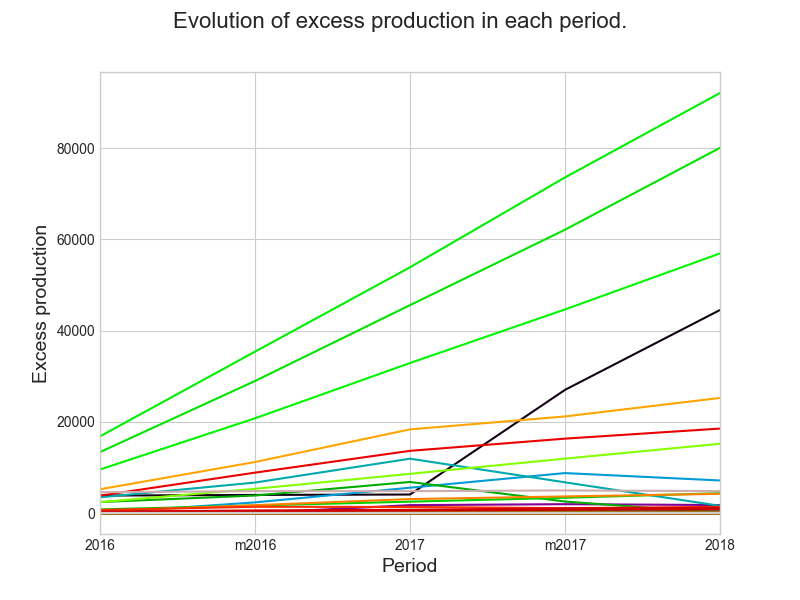
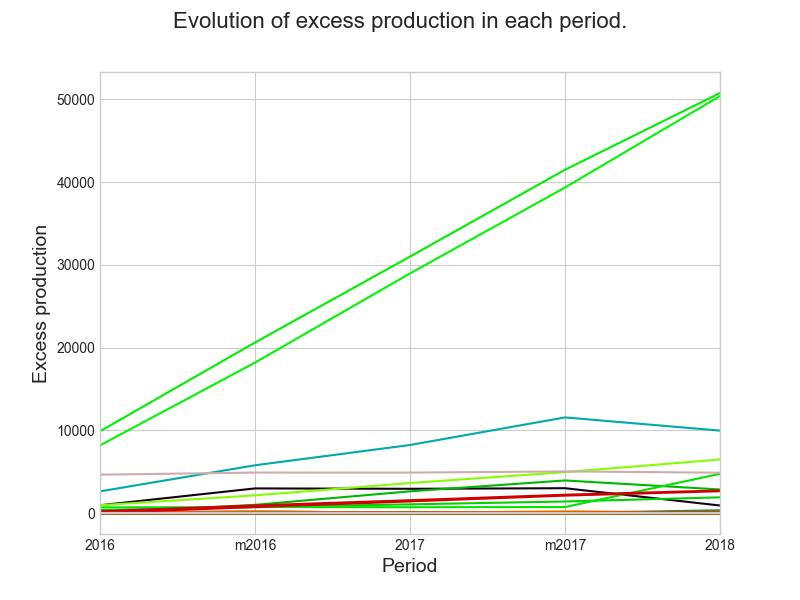
update data and algorithm to fit spanish economy

diff --git a/economicplan/optimize.py b/economicplan/optimize.py
@@ -102,7 +102,7 @@ class OptimizePlan:
         export_deficit (list[NDArray]): The export deficit at the end of each period.
         activity (list[Variable]): The activity variables of our LP problem, which correspond to the
             level of activation of each production unit.
-        final_import (list[Variable]): The final imported products (variables) of our LP problem,
+        total_import (list[Variable]): The final imported products (variables) of our LP problem,
             which correspond to the level of activation of each production unit.
     """
 
@@ -118,11 +118,11 @@ class OptimizePlan:
         self.activity_planned: list[NDArray] = ...
         self.production_planned: list[NDArray] = ...
         self.surplus_planned: list[NDArray] = ...
-        self.final_import_planned: list[NDArray] = ...
+        self.total_import_planned: list[NDArray] = ...
         self.export_deficit: list[NDArray] = ...
         self.worked_hours: list[NDArray] = ...
         self.activity: list[Variable] = ...
-        self.final_import: list[Variable] = ...
+        self.total_import: list[Variable] = ...
 
     def _validate_plan(self, economy: Economy) -> None:
         "Validate that the time periods are compatible."
@@ -151,15 +151,15 @@ class OptimizePlan:
         self.activity_planned = []
         self.production_planned = []
         self.surplus_planned = []
-        self.final_import_planned = []
+        self.total_import_planned = []
         self.export_deficit = []
         self.worked_hours = []
         self.activity = [  # Industrial activity is set as nonnegative
             Variable(economy.sectors, name=f"activity_{t}", nonneg=True)
             for t in range(self.periods + self.horizon_periods - 1)
         ]
-        self.final_import = [  # Imports are set as nonnegative
-            Variable(economy.products, name=f"final_import_{t}", nonneg=True)
+        self.total_import = [  # Imports are set as nonnegative
+            Variable(economy.products, name=f"total_import_{t}", nonneg=True)
             for t in range(self.periods + self.horizon_periods - 1)
         ]
         surplus = np.zeros(economy.products) if surplus is ... else surplus
@@ -174,7 +174,7 @@ class OptimizePlan:
             activity=np.array(self.activity_planned).T,
             production=np.array(self.production_planned).T,
             surplus=np.array(self.surplus_planned).T,
-            final_import=np.array(self.final_import_planned).T,
+            total_import=np.array(self.total_import_planned).T,
             export_deficit=np.array(self.export_deficit),
             worked_hours=np.array(self.worked_hours),
         )
@@ -208,7 +208,7 @@ class OptimizePlan:
             self.activity_planned.append(self.activity[t].value)
             self.production_planned[t] = self.production_planned[t].value
             self.surplus_planned[t] = self.surplus_planned[t].value
-            self.final_import_planned.append(self.final_import[t].value)
+            self.total_import_planned.append(self.total_import[t].value)
             self.export_deficit[t] = self.export_deficit[t].value
             self.worked_hours[t] = self.worked_hours[t].value
 
@@ -222,7 +222,7 @@ class OptimizePlan:
         cost = 0
         for t in range(period, period + self.horizon_periods):
             worked_hours = economy.worked_hours[t] @ self.activity[t]
-            import_prices = economy.prices_import[t] @ self.final_import[t]
+            import_prices = economy.prices_import[t] @ self.total_import[t]
             # TODO: revise cost function. The more we penalize imports, the more hours we work
             cost += worked_hours + import_prices
 
@@ -245,13 +245,13 @@ class OptimizePlan:
         """
         constraints = []
         for t in range(period, period + self.horizon_periods):
-            supply_use = economy.supply[t] - economy.use_domestic[t]
+            supply_use = economy.supply[t] - economy.use_domestic[t] - economy.use_import[t]
             production_planned = supply_use @ self.activity[t]
             surplus = (
                 economy.depreciation[t] @ surplus
                 + production_planned
-                + self.final_import[t]
-                - economy.final_domestic[t]
+                + self.total_import[t]
+                - economy.final_domestic[t]  # includes final_import
                 - economy.final_export[t]
             )
             constraints.append(surplus >= 0)
@@ -282,9 +282,8 @@ class OptimizePlan:
         constraints = []
         for t in range(period, period + self.revise_periods):
             total_price_export = economy.prices_export[t] @ economy.final_export[t]
-            total_price_import = economy.prices_import[t] @ (
-                economy.use_import[t] @ self.activity[t] + self.final_import[t]
-            )
+            total_price_import = economy.prices_import[t] @ self.total_import[t]
+                # economy.use_import[t] @ self.activity[t] + self.final_import[t]
             export_deficit = export_deficit + total_price_export - total_price_import
             # Save the trade deficit in the revised periods
             if t <= period + self.revise_periods - 1 and t <= self.periods - 1:

diff --git a/examples/Spain/save_data.py b/examples/Spain/save_data.py
@@ -43,6 +43,8 @@ if __name__ == "__main__":
         supply_matrix = csr_matrix(load_excel(excel_path, "Table1", 10, 3, 119, 83))
         supply.append(supply_matrix)
 
+        total_import_vector = load_excel(excel_path, "Table1", 10, 85, 119, 85).flatten()
+
         # ! This is the complete use matrix, because use_import is not available!!
         use_domestic_matrix = csr_matrix(load_excel(excel_path, "Table2", 10, 3, 119, 83))
         use_domestic.append(use_domestic_matrix)
@@ -53,8 +55,9 @@ if __name__ == "__main__":
         final_export_vector = load_excel(excel_path, "Table2", 10, 92, 119, 92).flatten()
         final_export.append(final_export_vector)
         # ? Check this is correct in the table
-        final_domestic_vector = load_excel(excel_path, "Table2", 10, 95, 119, 95).flatten()
-        final_domestic.append(final_domestic_vector)
+        # final uses includes exports
+        final_uses_vector = load_excel(excel_path, "Table2", 10, 95, 119, 95).flatten()
+        final_domestic.append(final_uses_vector - final_export_vector)
 
         prices_export.append(np.ones(supply_matrix.shape[0]))
         prices_import.append(np.ones(supply_matrix.shape[0]))

diff --git a/economicplan/economy.py b/economicplan/economy.py
@@ -139,6 +139,6 @@ class PlannedEconomy:
     activity: NDArray
     production: NDArray
     surplus: NDArray
-    final_import: NDArray
+    total_import: NDArray
     export_deficit: NDArray
     worked_hours: NDArray
